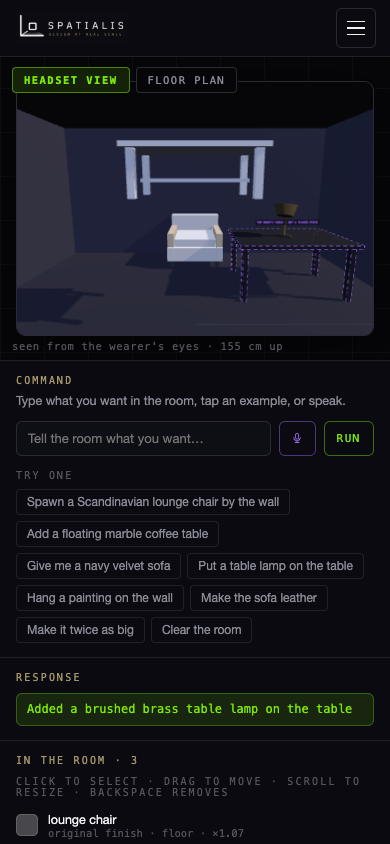
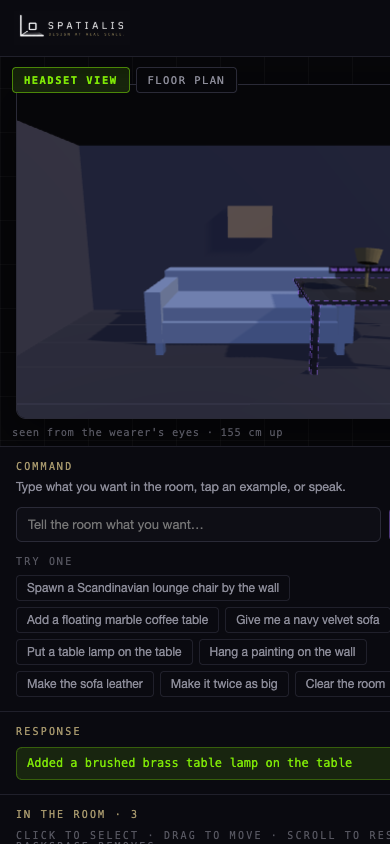
feat(app): the room starts empty
The three starter pieces are gone: the app opens on an empty room with the
Response line inviting the first command, and the room list showing its
empty state. A ?cmd= link still furnishes the room on load, so shared
scenes and the screenshots are unaffected.

diff --git a/Simulator/simulator.js b/Simulator/simulator.js
@@ -833,10 +833,8 @@ btnPlan.addEventListener("click", () => setView("plan"));
 const params = new URLSearchParams(location.search);
 if (params.get("view") === "plan") setView("plan");
 const fromUrl = params.get("cmd");
-const BOOT = fromUrl
-  ? fromUrl.split("|").map((c) => c.trim()).filter(Boolean)
-  : ["Spawn a Scandinavian lounge chair by the wall", "Add a floating marble coffee table",
-     "Put a brass table lamp on the table"];
+// The room starts empty; a ?cmd= link is the only thing that furnishes it on load.
+const BOOT = fromUrl ? fromUrl.split("|").map((c) => c.trim()).filter(Boolean) : [];
 
 const loadingEl = document.getElementById("loading");
 let report = { loaded: [], failed: CATALOG_KEYS.slice() };
@@ -861,5 +859,5 @@ requestAnimationFrame(frame);
 for (const c of BOOT) runCommand(c);
 if (!fromUrl) {
   heardEl.className = "interim";
-  heardEl.textContent = `Ready - ${BOOT.length} pieces were placed for you. Type a command, tap an example, or speak.`;
+  heardEl.textContent = "Ready - the room is empty. Type a command, tap an example, or speak.";
 }
